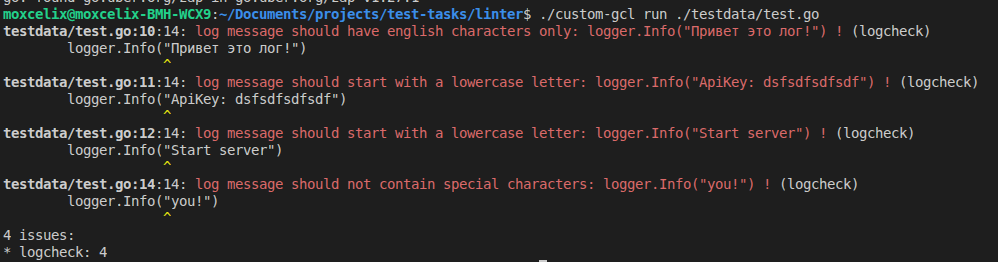
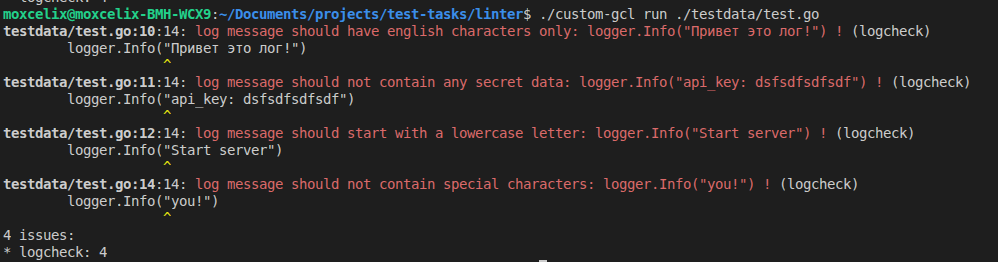
update picture

Changed region(s): [[0.3417, 0.2748, 0.994, 0.3664], [0.0, 0.0, 0.4038, 0.0305], [0.1553, 0.3359, 0.3727, 0.3969]]

diff --git a/testdata/test.go b/testdata/test.go
@@ -8,7 +8,7 @@ func main() {
 	logger, _ := zap.NewProduction()
 
 	logger.Info("Привет это лог!")
-	logger.Info("ApiKey: dsfsdfsdfsdf")
+	logger.Info("api_key: dsfsdfsdfsdf")
 	logger.Info("Start server")
 	logger.Info("server started")
 	logger.Info("you!")

diff --git a/testdata/test2.go b/testdata/test2.go
@@ -6,7 +6,7 @@ func b() {
 	logger, _ := zap.NewProduction()
 
 	logger.Info("PepeваФпа")
-	logger.Info("ApiKey: dsfsdfsdfsdf ✅")
+	logger.Info("api_key: dsfsdfsdfsdf ✅")
 	logger.Info("/")
 	logger.Info("!")
 	logger.Info("!")
